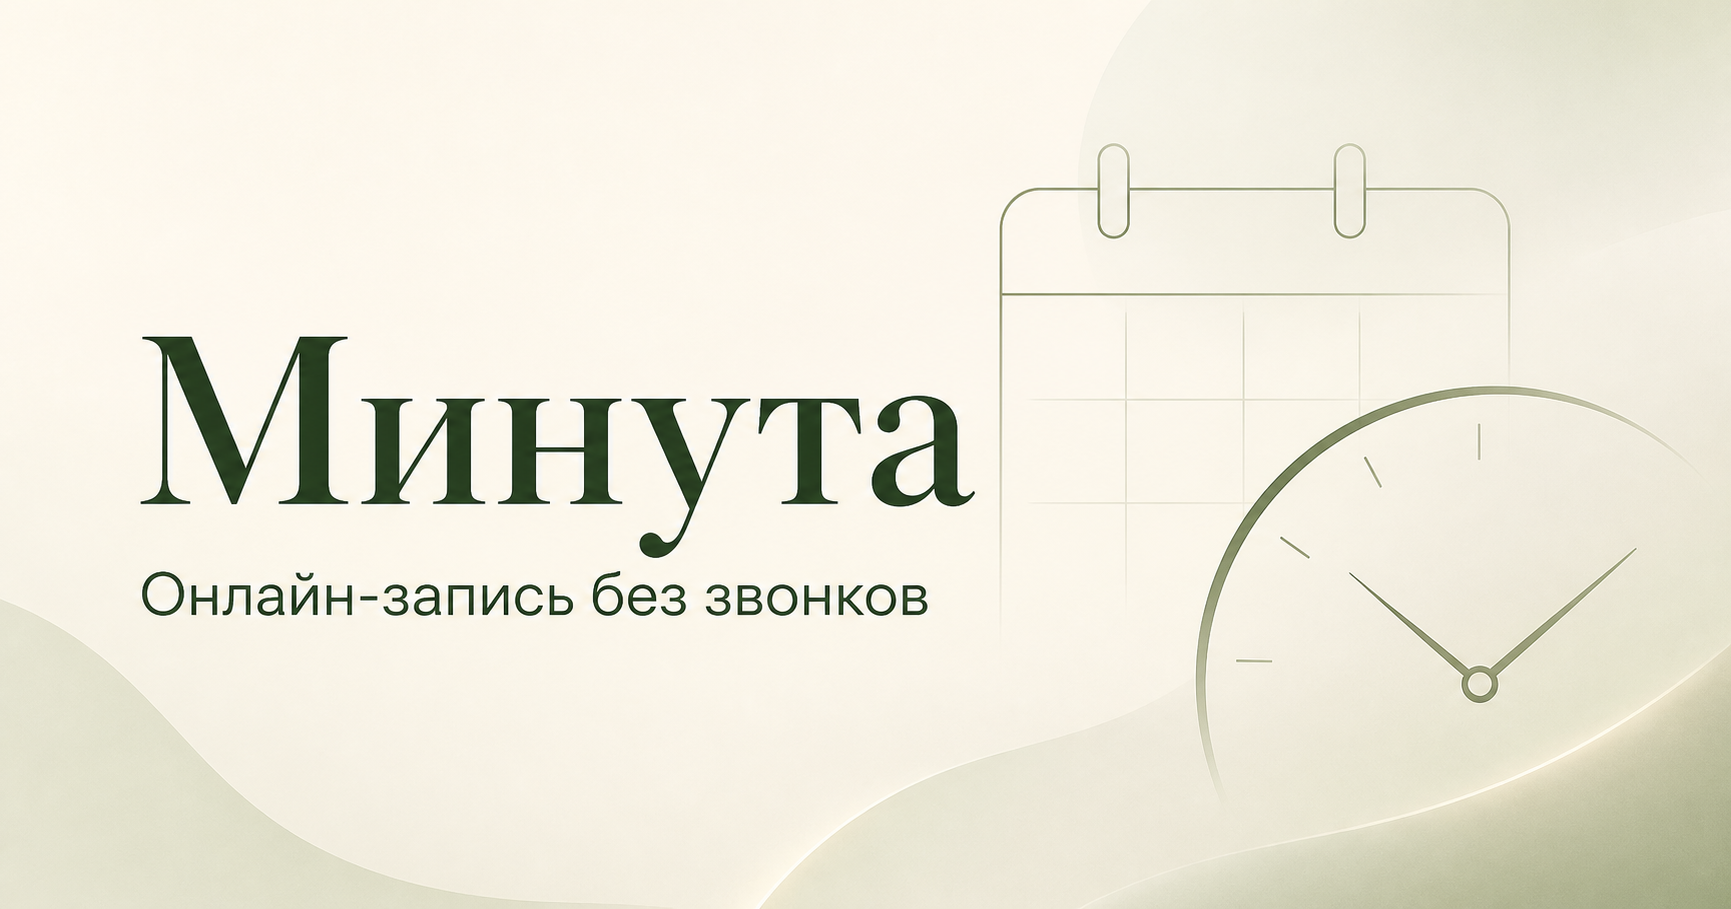
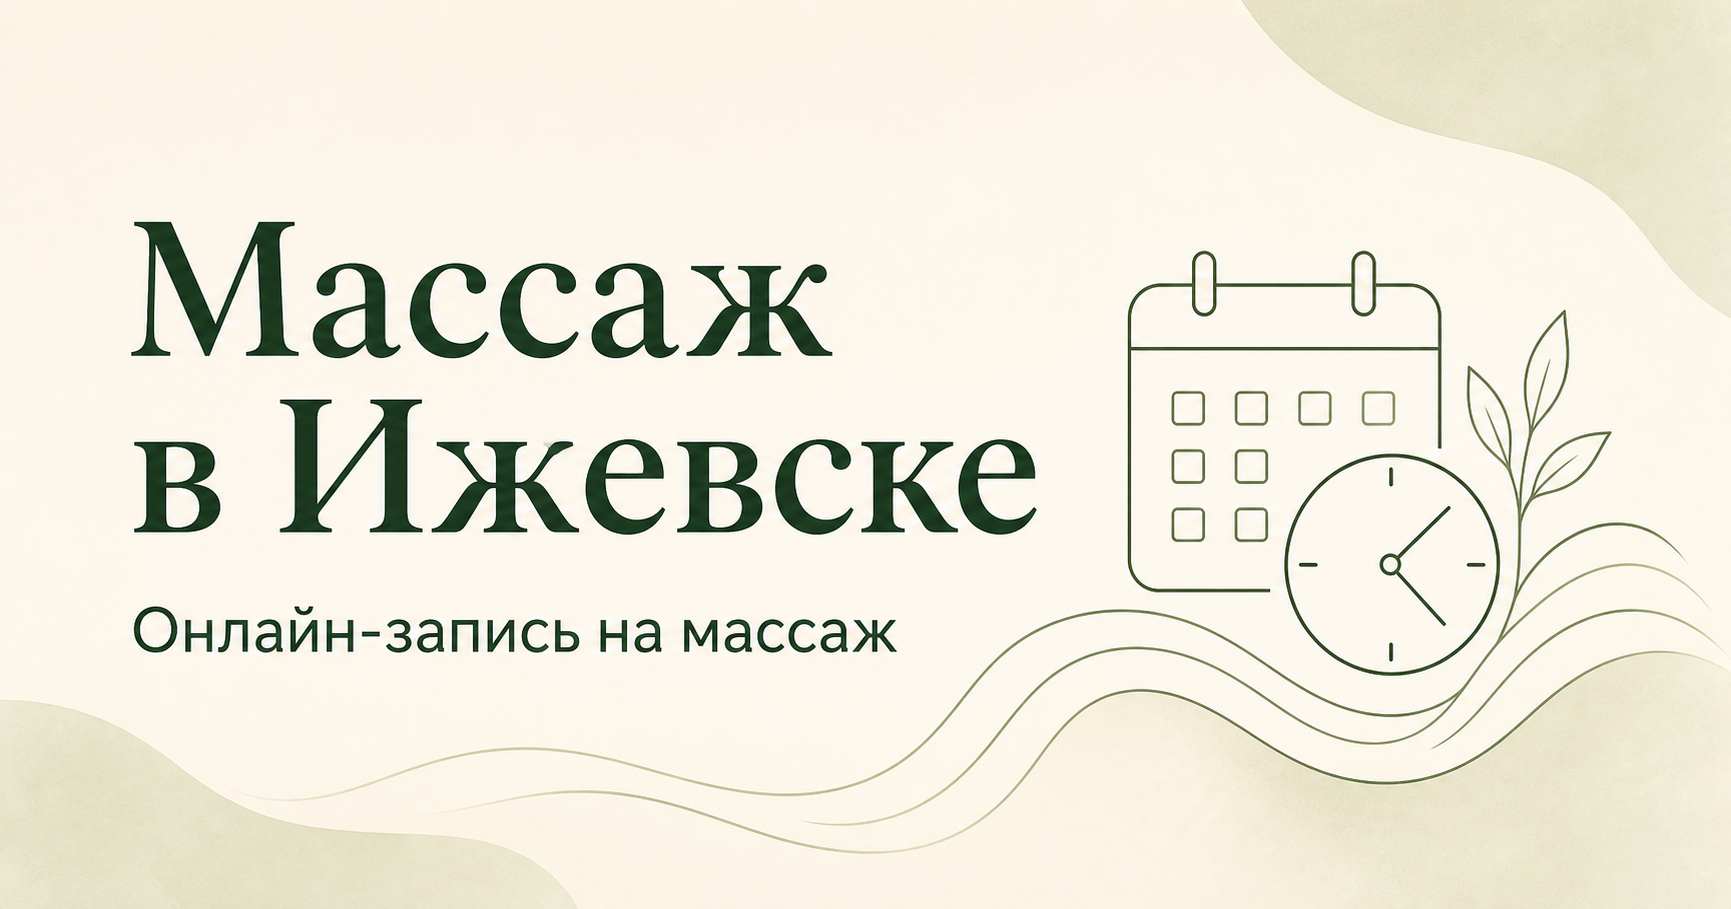
Rename site to Massage in Izhevsk

diff --git a/minuta-online-booking/provider.html b/minuta-online-booking/provider.html
@@ -4,23 +4,23 @@
   <meta charset="utf-8">
   <meta name="viewport" content="width=device-width, initial-scale=1, viewport-fit=cover">
   <meta name="theme-color" content="#153c2c">
-  <meta name="description" content="Удобный кабинет исполнителя онлайн-записи «Минута».">
-  <meta property="og:title" content="Кабинет исполнителя — Минута">
+  <meta name="description" content="Кабинет исполнителя онлайн-записи «Массаж в Ижевске».">
+  <meta property="og:title" content="Кабинет исполнителя — Массаж в Ижевске">
   <meta property="og:description" content="Управляйте услугами, расписанием и записями клиентов.">
   <meta property="og:type" content="website">
   <meta property="og:image" content="https://aladushka9180-droid.github.io/anatomy-trainer/minuta-online-booking/og.png">
   <meta name="twitter:card" content="summary_large_image">
   <meta name="twitter:image" content="https://aladushka9180-droid.github.io/anatomy-trainer/minuta-online-booking/og.png">
-  <title>Кабинет исполнителя — Минута</title>
+  <title>Кабинет исполнителя — Массаж в Ижевске</title>
   <link rel="icon" href="icon.svg" type="image/svg+xml">
-  <link rel="stylesheet" href="styles.css?v=13">
+  <link rel="stylesheet" href="styles.css?v=14">
 </head>
 <body class="provider-body">
   <div class="ambient ambient-left"></div><div class="ambient ambient-right"></div>
 
   <main class="provider-main">
     <section class="auth-card" id="authCard">
-      <a class="brand" href="index.html"><span class="brand-mark">М</span><span><strong>Минута</strong><small>кабинет исполнителя</small></span></a>
+      <a class="brand" href="index.html"><span class="brand-mark">М</span><span><strong>Массаж в Ижевске</strong><small>кабинет исполнителя</small></span></a>
       <span class="status" id="authBadge"><i></i> Личный кабинет</span>
       <h1 id="authTitle">Все записи под рукой.</h1>
       <p id="authDescription">Войдите или зарегистрируйтесь, чтобы управлять расписанием и услугами.</p>
@@ -56,7 +56,7 @@
 
     <section class="provider-app" id="dashboard" hidden>
       <aside class="provider-sidebar">
-        <a class="brand provider-brand" href="index.html"><span class="brand-mark">М</span><span><strong>Минута</strong><small>для исполнителя</small></span></a>
+        <a class="brand provider-brand" href="index.html"><span class="brand-mark">М</span><span><strong>Массаж в Ижевске</strong><small>для исполнителя</small></span></a>
         <nav class="provider-nav" aria-label="Разделы кабинета">
           <button class="active" type="button" data-provider-view="bookings"><span aria-hidden="true">▣</span><span>Записи</span><b id="newBookingsBadge" hidden>0</b></button>
           <button type="button" data-provider-view="clients"><span aria-hidden="true">♙</span><span>Клиенты</span><b id="clientsBadge">0</b></button>
@@ -194,7 +194,7 @@
   </main>
   <div class="toast" id="toast" hidden></div>
   <script src="https://cdn.jsdelivr.net/npm/@supabase/supabase-js@2/dist/umd/supabase.min.js"></script>
-  <script src="config.js?v=13"></script>
-  <script src="provider.js?v=13" defer></script>
+  <script src="config.js?v=14"></script>
+  <script src="provider.js?v=14" defer></script>
 </body>
 </html>

diff --git a/minuta-online-booking/index.html b/minuta-online-booking/index.html
@@ -4,24 +4,24 @@
   <meta charset="utf-8">
   <meta name="viewport" content="width=device-width, initial-scale=1, viewport-fit=cover">
   <meta name="theme-color" content="#183427">
-  <meta name="description" content="Онлайн-запись в студию красоты «Минута».">
-  <meta property="og:title" content="Минута — онлайн-запись">
-  <meta property="og:description" content="Выберите услугу и свободное время за пару минут.">
+  <meta name="description" content="Онлайн-запись на массаж в Ижевске.">
+  <meta property="og:title" content="Массаж в Ижевске — онлайн-запись">
+  <meta property="og:description" content="Выберите массаж и свободное время онлайн.">
   <meta property="og:type" content="website">
   <meta property="og:image" content="https://aladushka9180-droid.github.io/anatomy-trainer/minuta-online-booking/og.png">
   <meta name="twitter:card" content="summary_large_image">
-  <meta name="twitter:title" content="Минута — онлайн-запись">
-  <meta name="twitter:description" content="Выберите услугу и свободное время за пару минут.">
+  <meta name="twitter:title" content="Массаж в Ижевске — онлайн-запись">
+  <meta name="twitter:description" content="Выберите массаж и свободное время онлайн.">
   <meta name="twitter:image" content="https://aladushka9180-droid.github.io/anatomy-trainer/minuta-online-booking/og.png">
-  <title>Минута — онлайн-запись</title>
+  <title>Массаж в Ижевске — онлайн-запись</title>
   <link rel="icon" href="icon.svg" type="image/svg+xml">
   <link rel="manifest" href="manifest.webmanifest">
-  <link rel="stylesheet" href="styles.css?v=13">
+  <link rel="stylesheet" href="styles.css?v=14">
 </head>
 <body>
   <div class="ambient ambient-left"></div><div class="ambient ambient-right"></div>
   <header class="site-header">
-    <a class="brand" href="#top" aria-label="Минута — на главную"><span class="brand-mark">М</span><span><strong>Минута</strong><small>студия красоты</small></span></a>
+    <a class="brand" href="#top" aria-label="Массаж в Ижевске — на главную"><span class="brand-mark">М</span><span><strong>Массаж в Ижевске</strong><small>онлайн-запись</small></span></a>
     <a class="provider-link" href="provider.html"><span aria-hidden="true">◎</span> Вход исполнителя</a>
   </header>
 
@@ -70,6 +70,6 @@
     </section>
   </main>
   <script src="https://cdn.jsdelivr.net/npm/@supabase/supabase-js@2/dist/umd/supabase.min.js"></script>
-  <script src="config.js?v=13"></script><script src="app.js?v=13" defer></script>
+  <script src="config.js?v=14"></script><script src="app.js?v=14" defer></script>
 </body>
 </html>

diff --git a/minuta-online-booking/booking.js b/minuta-online-booking/booking.js
@@ -111,9 +111,9 @@ function calendarTimestamp(date, time, addMinutes = 0) {
 
 function addToCalendar() {
   const item = state.booking;
-  const lines = ['BEGIN:VCALENDAR', 'VERSION:2.0', 'PRODID:-//Minuta//Booking//RU', 'BEGIN:VEVENT', `UID:${item.booking_code}@minuta-booking`, `DTSTART:${calendarTimestamp(item.booking_date, item.booking_time)}`, `DTEND:${calendarTimestamp(item.booking_date, item.booking_time, item.duration_minutes)}`, `SUMMARY:${item.service_name} — Минута`, `DESCRIPTION:Исполнитель: ${item.performer_name}. Номер записи: ${item.booking_code}`, 'LOCATION:Ижевск, ул. Карла Маркса, 304б', 'END:VEVENT', 'END:VCALENDAR'];
+  const lines = ['BEGIN:VCALENDAR', 'VERSION:2.0', 'PRODID:-//MassageIzhevsk//Booking//RU', 'BEGIN:VEVENT', `UID:${item.booking_code}@massage-izhevsk`, `DTSTART:${calendarTimestamp(item.booking_date, item.booking_time)}`, `DTEND:${calendarTimestamp(item.booking_date, item.booking_time, item.duration_minutes)}`, `SUMMARY:${item.service_name} — Массаж в Ижевске`, `DESCRIPTION:Исполнитель: ${item.performer_name}. Номер записи: ${item.booking_code}`, 'LOCATION:Ижевск, ул. Карла Маркса, 304б', 'END:VEVENT', 'END:VCALENDAR'];
   const url = URL.createObjectURL(new Blob([lines.join('\r\n')], { type: 'text/calendar;charset=utf-8' }));
-  const link = document.createElement('a'); link.href = url; link.download = `minuta-${item.booking_code}.ics`; link.click(); setTimeout(() => URL.revokeObjectURL(url), 1000);
+  const link = document.createElement('a'); link.href = url; link.download = `massage-${item.booking_code}.ics`; link.click(); setTimeout(() => URL.revokeObjectURL(url), 1000);
 }
 
 document.addEventListener('click', event => {

diff --git a/minuta-online-booking/booking.html b/minuta-online-booking/booking.html
@@ -4,16 +4,16 @@
   <meta charset="utf-8">
   <meta name="viewport" content="width=device-width, initial-scale=1, viewport-fit=cover">
   <meta name="theme-color" content="#183427">
-  <meta name="description" content="Управление записью клиента в «Минута».">
+  <meta name="description" content="Управление записью на массаж в Ижевске.">
   <meta name="robots" content="noindex,nofollow">
-  <title>Моя запись — Минута</title>
+  <title>Моя запись — Массаж в Ижевске</title>
   <link rel="icon" href="icon.svg" type="image/svg+xml">
-  <link rel="stylesheet" href="styles.css?v=13">
+  <link rel="stylesheet" href="styles.css?v=14">
 </head>
 <body class="manage-body">
   <div class="ambient ambient-left"></div><div class="ambient ambient-right"></div>
   <header class="site-header manage-header">
-    <a class="brand" href="index.html"><span class="brand-mark">М</span><span><strong>Минута</strong><small>моя запись</small></span></a>
+    <a class="brand" href="index.html"><span class="brand-mark">М</span><span><strong>Массаж в Ижевске</strong><small>моя запись</small></span></a>
     <a class="provider-link" href="index.html">＋ Новая запись</a>
   </header>
   <main class="manage-layout">
@@ -51,6 +51,6 @@
   </main>
   <div class="toast" id="toast" hidden></div>
   <script src="https://cdn.jsdelivr.net/npm/@supabase/supabase-js@2/dist/umd/supabase.min.js"></script>
-  <script src="config.js?v=13"></script><script src="booking.js?v=13" defer></script>
+  <script src="config.js?v=14"></script><script src="booking.js?v=14" defer></script>
 </body>
 </html>

diff --git a/minuta-online-booking/sw.js b/minuta-online-booking/sw.js
@@ -1,5 +1,5 @@
-const CACHE = 'minuta-v13';
-const ASSETS = ['./', './index.html', './provider.html', './booking.html', './styles.css?v=13', './config.js?v=13', './app.js?v=13', './provider.js?v=13', './booking.js?v=13', './manifest.webmanifest', './icon.svg', './og.png'];
+const CACHE = 'massage-izhevsk-v14';
+const ASSETS = ['./', './index.html', './provider.html', './booking.html', './styles.css?v=14', './config.js?v=14', './app.js?v=14', './provider.js?v=14', './booking.js?v=14', './manifest.webmanifest', './icon.svg', './og.png'];
 
 self.addEventListener('install', event => {
   event.waitUntil(caches.open(CACHE).then(cache => cache.addAll(ASSETS)).then(() => self.skipWaiting()));

diff --git a/minuta-online-booking/404.html b/minuta-online-booking/404.html
@@ -1,1 +1,1 @@
-<!doctype html><html lang="ru"><meta charset="utf-8"><meta name="viewport" content="width=device-width,initial-scale=1"><title>Минута</title><script>location.replace('./')</script><body></body></html>
+<!doctype html><html lang="ru"><meta charset="utf-8"><meta name="viewport" content="width=device-width,initial-scale=1"><title>Массаж в Ижевске</title><script>location.replace('./')</script><body></body></html>

diff --git a/minuta-online-booking/app.js b/minuta-online-booking/app.js
@@ -197,4 +197,4 @@ $('#newBooking').addEventListener('click', resetFlow);
 renderDates();
 renderTimes();
 loadServices();
-if ('serviceWorker' in navigator) window.addEventListener('load', () => navigator.serviceWorker.register('./sw.js?v=13'));
+if ('serviceWorker' in navigator) window.addEventListener('load', () => navigator.serviceWorker.register('./sw.js?v=14'));
